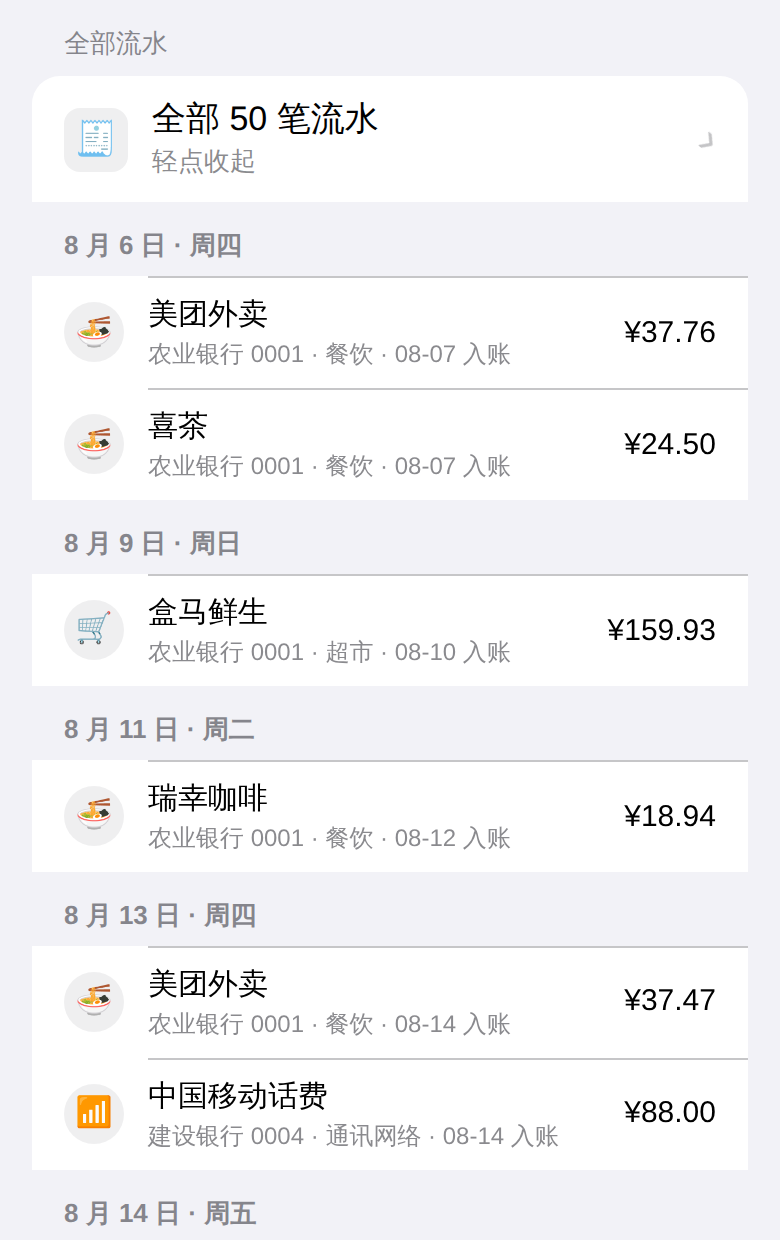
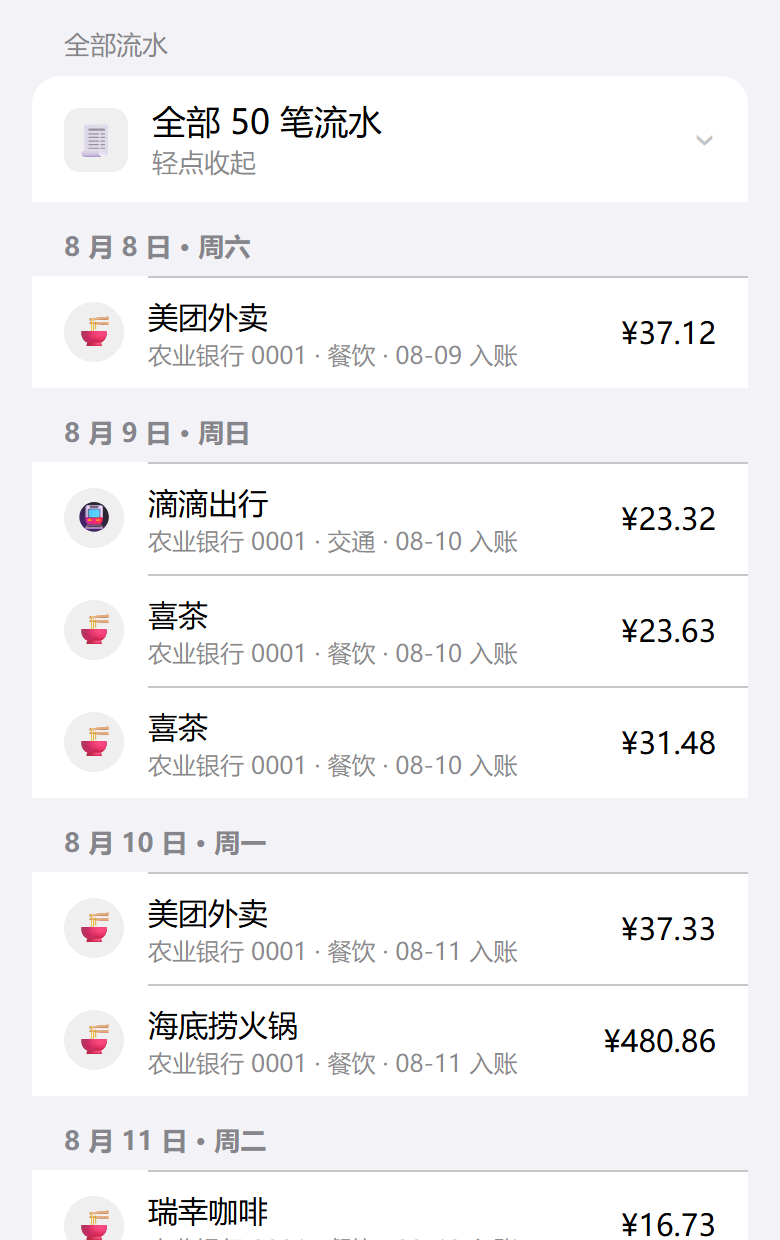
docs: fresh README screenshots, plus the year in review
The screenshots still showed the e-mail from before the 2026-09-28 redesign. The demo
now invents a whole year of bills, shoots with reduced motion and waits for the opened
list to settle, and adds the year in review's first screen.

Claude-Session: https://claude.ai/code/session_014zkdoK5RxdpfRmDZSBwfQo

diff --git a/scripts/demo_screenshots.py b/scripts/demo_screenshots.py
@@ -1,4 +1,5 @@
-"""Screenshots of the month's e-mail for the README, made from invented data.
+"""Screenshots of the e-mails (the month's, the year in review) for the README, made from
+invented data.
 
 Nothing here comes from a statement: every card, merchant and amount below is made up,
 so the pictures can be public. The data goes through the real code (save_bill, the
@@ -25,8 +26,11 @@ from decimal import Decimal
 from pathlib import Path
 
 ROOT = Path(__file__).resolve().parent.parent
-CYCLES = ["2026-04", "2026-05", "2026-06", "2026-07", "2026-08", "2026-09"]
+# All of 2026 and the January after it (whose statements hold December's spending), so the
+# year in review has a whole year to show.
+CYCLES = [f"2026-{m:02d}" for m in range(1, 13)] + ["2027-01"]
 SHOWN = "2026-09"  # the month the screenshots show
+YEAR = 2026  # the year in review shown
 AUD_TO_CNY = Decimal("4.7050")
 
 
@@ -87,8 +91,10 @@ SEPTEMBER_EXTRA = {
 SEPTEMBER_FEWER = {"滴滴出行": 2, "UBER *TRIP": 1}
 # A phone bought in twelve instalments: part of what is owed, never counted as spending.
 INSTALLMENT = {"CCB:0004": (Decimal("583.25"), "手机")}
-MONTH_SCALE = {"2026-04": 0.92, "2026-05": 1.05, "2026-06": 0.97, "2026-07": 1.12,
-               "2026-08": 0.88, "2026-09": 1.0}  # fmt: skip
+MONTH_SCALE = {"2026-01": 1.18, "2026-02": 1.25, "2026-03": 0.9, "2026-04": 0.92,
+               "2026-05": 1.05, "2026-06": 0.97, "2026-07": 1.12, "2026-08": 0.88,
+               "2026-09": 1.0, "2026-10": 0.95, "2026-11": 1.08, "2026-12": 1.3,
+               "2027-01": 1.1}  # fmt: skip
 
 
 def money(value: float) -> Decimal:
@@ -129,8 +135,8 @@ def build_bills(rng: random.Random):
             entries = [(start + timedelta(days=15), -prev, TxnType.REPAYMENT, "还款 谢谢",
                         None, None, None)]  # fmt: skip
             entries += [(w, a, TxnType.PURCHASE, d, d, loc, None) for w, a, d, loc in rows]
-            if account in INSTALLMENT:  # owed this month, but not spending: 合计应还 > 消费
-                n = CYCLES.index(cycle) + 3
+            n = CYCLES.index(cycle) + 1  # the phone's instalment this month, 1..12
+            if account in INSTALLMENT and n <= 12:  # owed, not spending: 合计应还 > 消费
                 principal, what = INSTALLMENT[account]
                 entries.append((statement, principal, TxnType.INSTALLMENT,
                                 f"{what} 分期本金 第{n}/12期", None, None, f"{n}/12"))  # fmt: skip
@@ -215,12 +221,13 @@ def offline(url: str) -> str:
 
 
 def render(conn):
-    """(the month's e-mail, one standard statement) as HTML."""
+    """(the month's e-mail, the year in review, one standard statement) as HTML."""
     from autobill.categorize import load_rules
     from autobill.config import FxConfig
     from autobill.fx import FxRates
     from autobill.report.cycle import build_cycle_report, latest_bills, render_cycle_html
     from autobill.report.statement import render_statement_html
+    from autobill.report.year import build_year_report, render_year_html
     from autobill.store.db import load_bill
 
     fx = FxRates(conn, FxConfig(), offline)
@@ -228,8 +235,13 @@ def render(conn):
     report = build_cycle_report(
         conn, SHOWN, fx, rules, today=date(2026, 10, 1), now=datetime(2026, 10, 1, 9, 30)
     )
+    year = build_year_report(conn, YEAR, fx, rules, now=datetime(YEAR + 1, 1, 20, 9, 30))
     bill = load_bill(conn, latest_bills(conn, SHOWN)["ABC:0001"])
-    return render_cycle_html(report), render_statement_html(bill, fx, rules)
+    return (
+        render_cycle_html(report),
+        render_year_html(year),
+        render_statement_html(bill, fx, rules),
+    )
 
 
 def section(page, heading: str, *, max_height: int | None = None) -> dict:
@@ -244,22 +256,26 @@ def section(page, heading: str, *, max_height: int | None = None) -> dict:
         }""",
         heading,
     )
-    height = box["bottom"] - box["y"] + 28
+    height = box["bottom"] - box["y"] + 20  # stop just under the card, above any hint below it
     if max_height:
         height = min(height, max_height)
     return {"x": 0, "y": box["y"] - 14, "width": page.viewport_size["width"], "height": height}
 
 
-def shoot(email_html: str, statement_html: str, out: Path, browser: str | None) -> list[Path]:
+def shoot(
+    email_html: str, year_html: str, statement_html: str, out: Path, browser: str | None
+) -> list[Path]:
     from playwright.sync_api import sync_playwright
 
     out.mkdir(parents=True, exist_ok=True)
     written = []
     with sync_playwright() as p:
         chromium = p.chromium.launch(executable_path=browser) if browser else p.chromium.launch()
+        phone = {"width": 390, "height": 844}
         for scheme in ("light", "dark"):
+            # Reduced motion: a row that opens is shot open, not halfway through its spring.
             page = chromium.new_page(
-                viewport={"width": 390, "height": 844}, device_scale_factor=2, color_scheme=scheme
+                viewport=phone, device_scale_factor=2, color_scheme=scheme, reduced_motion="reduce"
             )
             page.set_content(email_html)
             written.append(out / f"email-{scheme}.png")
@@ -269,11 +285,18 @@ def shoot(email_html: str, statement_html: str, out: Path, browser: str | None) 
                     written.append(out / f"email-{name}.png")
                     page.screenshot(path=written[-1], clip=section(page, heading), full_page=True)
                 page.click("label[for=tx]")  # unfold the transactions
+                page.wait_for_timeout(1500)  # let the list finish opening before measuring it
                 written.append(out / "email-transactions.png")
                 page.screenshot(
                     path=written[-1], clip=section(page, "全部流水", max_height=620), full_page=True
                 )
             page.close()
+        # The year in review's first screen: the year's total and a column per month.
+        page = chromium.new_page(viewport=phone, device_scale_factor=2, reduced_motion="reduce")
+        page.set_content(year_html)
+        written.append(out / "year-review.png")
+        page.screenshot(path=written[-1])
+        page.close()
         # The statement's first cards: header, payment information, account summary.
         page = chromium.new_page(viewport={"width": 430, "height": 700}, device_scale_factor=2)
         page.set_content(statement_html)
@@ -293,9 +316,9 @@ def main() -> None:
         os.environ.pop("AUTOBILL_RULES", None)
         sys.path.insert(0, str(ROOT / "src"))
         conn = build_database(Path(tmp))
-        email_html, statement_html = render(conn)
+        email_html, year_html, statement_html = render(conn)
         conn.close()
-    for path in shoot(email_html, statement_html, args.out, args.browser):
+    for path in shoot(email_html, year_html, statement_html, args.out, args.browser):
         print(f"{path.relative_to(ROOT) if path.is_relative_to(ROOT) else path}"
               f"  {path.stat().st_size // 1024} KB")  # fmt: skip
 

diff --git a/README.md b/README.md
@@ -45,11 +45,11 @@ flowchart LR
   <tr>
     <td width="50%" valign="top">
       <img src="docs/images/email-spending.png" alt="Spending by category as a donut chart, with notes under categories that are clearly off their usual">
-      <p><b>Spending</b> by category with month-over-month change. A category clearly off its usual level (the median of the previous three months) gets a quiet note, whether up or down.</p>
+      <p><b>Spending</b> by category with month-over-month change. A category clearly off its usual level (the median of the previous three months) gets a quiet note, whether up or down. Tap a category, or one of the top merchants, to see every purchase behind it.</p>
     </td>
     <td width="50%" valign="top">
       <img src="docs/images/email-trend.png" alt="Last six months: one column per month, the current month highlighted">
-      <p><b>Last six months</b>: one column per statement month, the current month highlighted, with the average.</p>
+      <p><b>Last six months</b>: one column per statement month with its amount, the current month highlighted, and the average.</p>
       <img src="docs/images/email-transactions.png" alt="All transactions grouped by day, each showing its card and category">
       <p><b>All transactions</b> from every card in one list by day, collapsed until tapped. Foreign purchases show the local currency first, with the CNY equivalent.</p>
     </td>
@@ -57,6 +57,10 @@ flowchart LR
 </table>
 
 The e-mail also lists each card's statement date, due date and amount due (foreign-currency cards in both currencies) and the top merchants. Due dates are shown; payment reminders are deliberately out of scope.
+
+<p align="center"><img src="docs/images/year-review.png" width="300" alt="The year in review, first screen: the year's spending and one column per month"></p>
+
+The **year in review** opens with the year's spending and a column per month. Tap a month to list its purchases, then a category to narrow them down.
 
 ## Supported banks
 | Bank | Statement format | Status |

diff --git a/docs/development.md b/docs/development.md
@@ -224,14 +224,14 @@ uv run autobill --help        # 运行程序本身
 
 **新增样本**：只做上面的第 2 步，再加上快照测试和覆盖矩阵的更新。
 
-**更新 README 的截图**（`docs/images/`，2026-09-24 加）：月度邮件的样式改了之后，重新生成一遍，和样式改动放在同一个 PR 里。
+**更新 README 的截图**（`docs/images/`，2026-09-24 加）：月度邮件或年度回顾的样式改了之后，重新生成一遍，和样式改动放在同一个 PR 里（2026-09-28 到 09-29 的几次改版漏了这一步，2026-09-30 补上）。
 ```powershell
 uv run --with playwright playwright install chromium   # 第一次用时装一次
 uv run --with playwright python scripts/demo_screenshots.py
 ```
 - 数据**全部是编的**（脚本里写死的卡、商户、金额），不读任何真实账单和数据库，所以截图可以公开；它不是"脱敏脚本"。
-- 编的数据照样走真实代码（`save_bill`、月度报表、模板），截图就是程序实际渲染的样子；全程离线，汇率直接写进临时数据库。
-- 生成 6 张图：首屏（浅色、深色）、本月消费、近 6 个月、展开的流水、标准账单；每张控制在 300 KB 以内。
+- 编的数据照样走真实代码（`save_bill`、月度报表、年度回顾、模板），截图就是程序实际渲染的样子；全程离线，汇率直接写进临时数据库。编了 2026 全年加 2027 年 1 月的账单，年度回顾才有完整的一年。
+- 生成 7 张图：月度邮件首屏（浅色、深色）、本月消费、近 6 个月、展开的流水、年度回顾首屏、标准账单；每张控制在 300 KB 以内。截图时模拟"减弱动态效果"，并等展开的列表停稳再拍，不会拍到动画的半截。
 - Playwright 只是这个脚本用，不是项目依赖；已经有 Chrome/Chromium 时可以用 `--browser <路径>` 跳过安装。
 
 ## 10. 用 AI（Claude）开发的注意事项

diff --git a/README.zh-CN.md b/README.zh-CN.md
@@ -45,11 +45,11 @@ flowchart LR
   <tr>
     <td width="50%" valign="top">
       <img src="docs/images/email-spending.png" alt="本月消费：分类圆环图，明显偏离平时的分类下面写着比平时多多少">
-      <p><b>本月消费</b>：分类圆环图和环比。明显偏离平时（前 3 个月的中位数）的分类会标出"比平时多/少 ¥X"，只展示、不评判。</p>
+      <p><b>本月消费</b>：分类圆环图和环比。明显偏离平时（前 3 个月的中位数）的分类会标出"比平时多/少 ¥X"，只展示、不评判。轻点一个分类（或下面花得最多的商户），就能看到它背后的每一笔。</p>
     </td>
     <td width="50%" valign="top">
       <img src="docs/images/email-trend.png" alt="近 6 个月：每月一根柱子，本月高亮">
-      <p><b>近 6 个月</b>：每个账单月一根柱子，本月高亮，附平均值。</p>
+      <p><b>近 6 个月</b>：每个账单月一根柱子，上面写着金额，本月高亮，附平均值。</p>
       <img src="docs/images/email-transactions.png" alt="展开后的全部流水：按日期分组，每笔写明哪张卡、什么分类">
       <p><b>全部流水</b>：所有卡的流水合在一张表里，按日期分组，默认折叠、轻点展开；外币消费以当地币种为主，附折合人民币。</p>
     </td>
@@ -57,6 +57,10 @@ flowchart LR
 </table>
 
 邮件里还有每张卡的出账日、还款日和应还金额（外币卡同时给出原币种），以及花得最多的商户。只展示还款日，不做还款提醒。
+
+<p align="center"><img src="docs/images/year-review.png" width="300" alt="年度回顾的第一屏：全年消费和每月一根柱子"></p>
+
+**年度回顾**一打开是全年消费和每月一根柱子。点一个月份，列出那个月的每一笔；再点一个分类，只看那一类。
 
 ## 支持的银行
 | 银行 | 账单格式 | 状态 |

diff --git a/CHANGELOG.md b/CHANGELOG.md
@@ -24,6 +24,7 @@
 - 发给 AI 的币种改成"店收的币种"：同一家店有一笔是外币就用外币；中行人民币卡在国外刷的只记人民币，这时不发币种。以前发 "CNY" 加 "AUS"，模型把找对的悉尼小店当成对不上而否掉。提示词加了一句：`… PTY LTD` 只搜到公司注册信息时，再找它用什么店名营业。
 - AI 把新商户问完才发账单邮件：一轮问完还有新商户没轮到（`ai.per_run`，默认每轮 20 个），这一轮就不发月度邮件和年度回顾，等问完那一轮再发。以前一次导入一整年的历史账单时，头几封邮件里一大片"未分类"，发出去就改不了。AI 出错、关着或这一轮什么都没问到时照常发，不会因为 AI 坏了就收不到账单。
 - README 改为英文为主（`README.md`），简体中文版改名为 `README.zh-CN.md`；License 和 Security 相关内容只用英文。
+- README 的截图换成现在的邮件样子（之前还是 9 月 24 日改版前的），并新增一张年度回顾截图。`scripts/demo_screenshots.py` 编了 2026 全年的账单，截图时减弱动态效果，不会拍到展开到一半的列表。
 - 账单月邮件去掉"每日消费"柱状图和"最大的一笔"：各张卡的账单周期错开，合起来画的每日图两头只算到部分卡，日均也被拉低；最大的一笔经常和商户排行第一名重复。标准账单（`autobill statement`）里的每日图保留。
 
 ### Fixed
